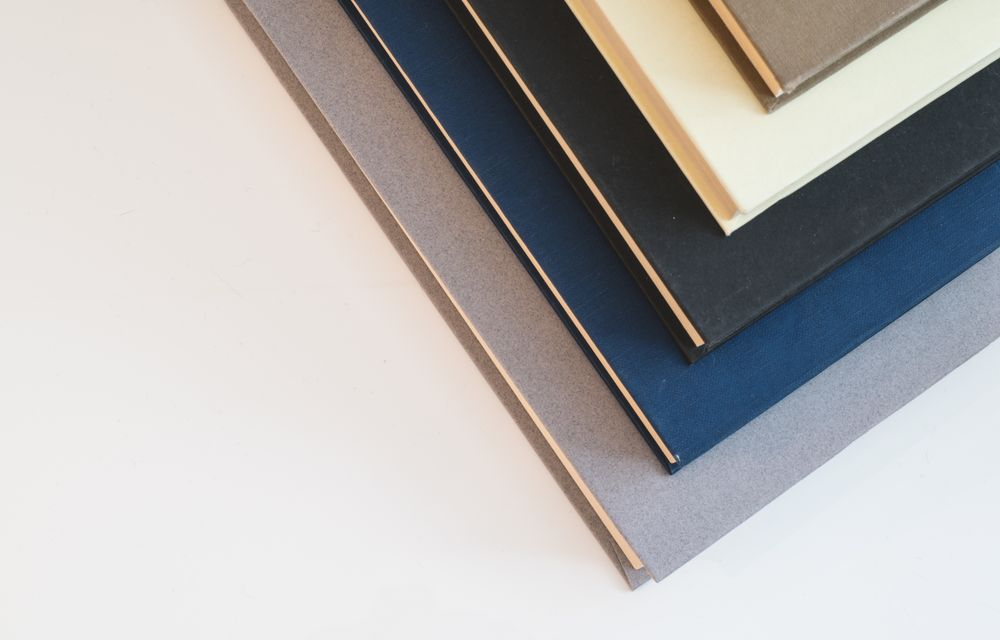
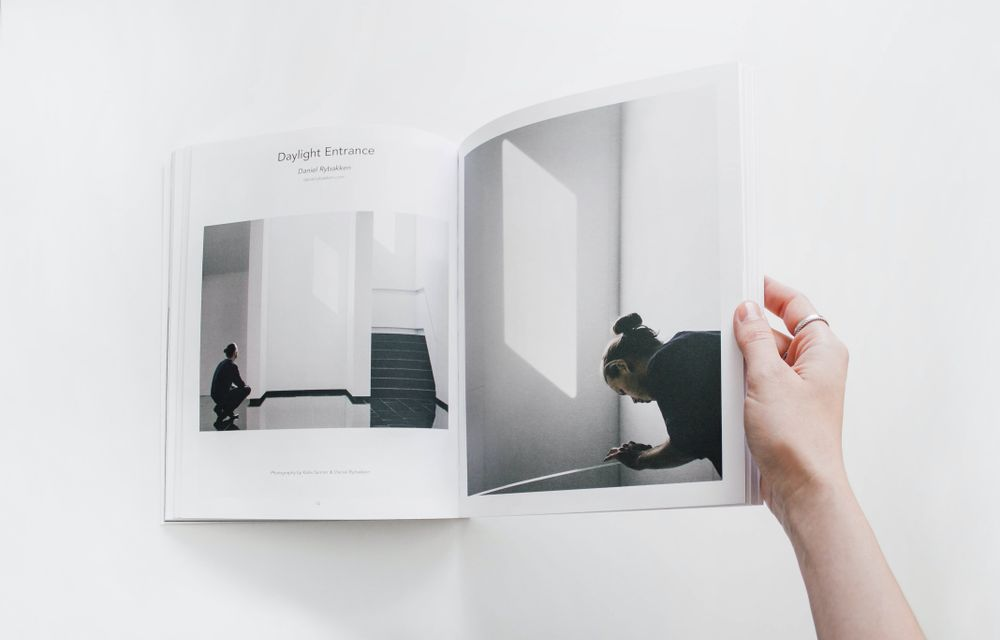
Use a book-interior photo for the Designed & formatted stage

diff --git a/website-react/src/components/ToolsShowcase.jsx b/website-react/src/components/ToolsShowcase.jsx
@@ -17,7 +17,7 @@ const ART = [
   ["/assets/stages/writing.jpg", "Hands typing a manuscript on a laptop"],
   ["/assets/stages/draft.jpg", "A finished draft on the desk next to a laptop"],
   ["/assets/stages/edited.jpg", "A hand marking up a manuscript with a red pen"],
-  ["/assets/stages/designed.jpg", "A stack of plain hardcover books in different colours"],
+  ["/assets/stages/designed.jpg", "A hand holding open a book with a cleanly laid-out photo spread"],
   ["/assets/stages/launch.jpg", "A bookstore table with a display of new books"],
 ];
 

diff --git a/website-react/README.md b/website-react/README.md
@@ -21,4 +21,4 @@ Photos in `public/assets/services/` and `public/assets/journey/` are from [Pexel
 Photo ids: 5905849, 1475290, 17890948, 844734, 76942, 2041891, 5428670, 5939401, 12044783, 8640098,
 7129624, 20456575 (services); 7550402, 7596910, 15309303, 3952079, 8581043 (journey). The services wheel is `src/components/ui/works-wheel.tsx` (CSS 3D).
 
-Stage photos in `public/assets/stages/` (Pexels): idea 7120923, writing 8036328, draft 8035295, edited 7968067, designed 335253, launch 27854754.
+Stage photos in `public/assets/stages/` (Pexels): idea 7120923, writing 8036328, draft 8035295, edited 7968067, designed 8408540, launch 27854754.
